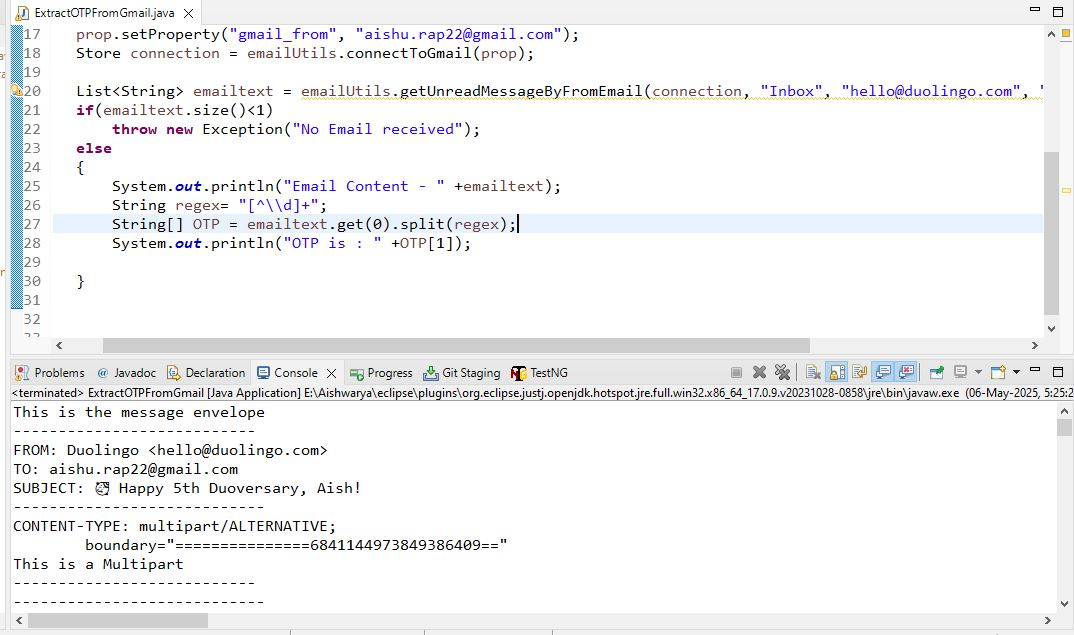
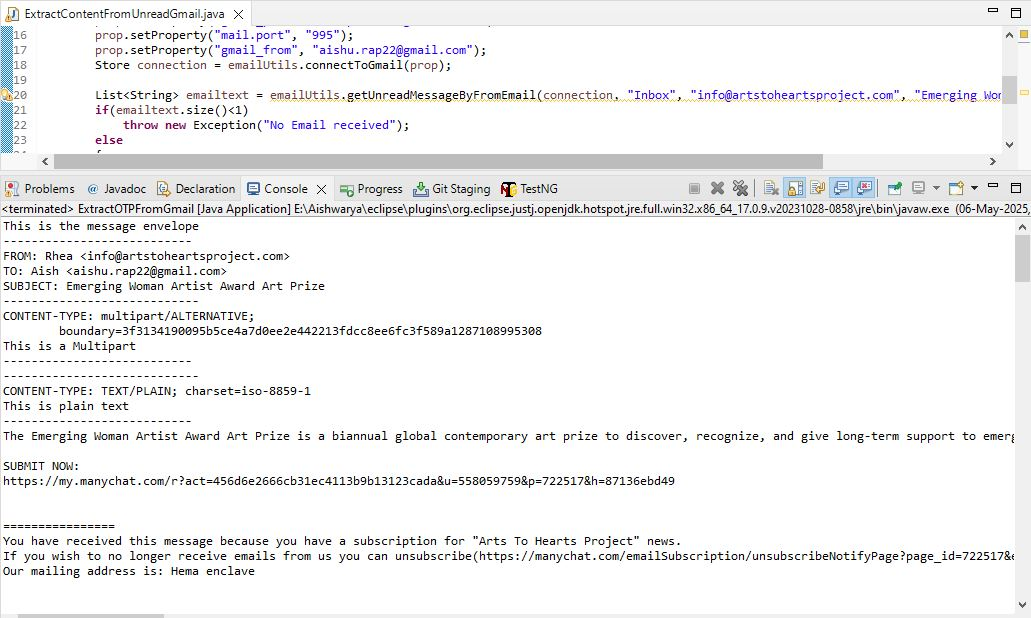
Renamed the class name, modified the mail subject and checked it.

diff --git a/src/com/java/ExtractContentFromUnreadGmail.java b/src/com/java/ExtractContentFromUnreadGmail.java
@@ -7,7 +7,7 @@ import javax.mail.Store;
 
 import com.testing.framework.EmailUtils;
 
-public class ExtractOTPFromGmail {
+public class ExtractContentFromUnreadGmail {
 	public static void main(String[] args) throws Exception{
 		EmailUtils emailUtils = new EmailUtils();
 		Properties prop = new Properties();
@@ -17,7 +17,7 @@ public class ExtractOTPFromGmail {
 		prop.setProperty("gmail_from", "aishu.rap22@gmail.com");
 		Store connection = emailUtils.connectToGmail(prop);
 
-		List<String> emailtext = emailUtils.getUnreadMessageByFromEmail(connection, "Inbox", "hello@duolingo.com", "🥳 Happy 5th Duoversary, Aish!");
+		List<String> emailtext = emailUtils.getUnreadMessageByFromEmail(connection, "Inbox", "info@artstoheartsproject.com", "Emerging Woman Artist Award Art Prize");
 		if(emailtext.size()<1)
 			throw new Exception("No Email received");
 		else
